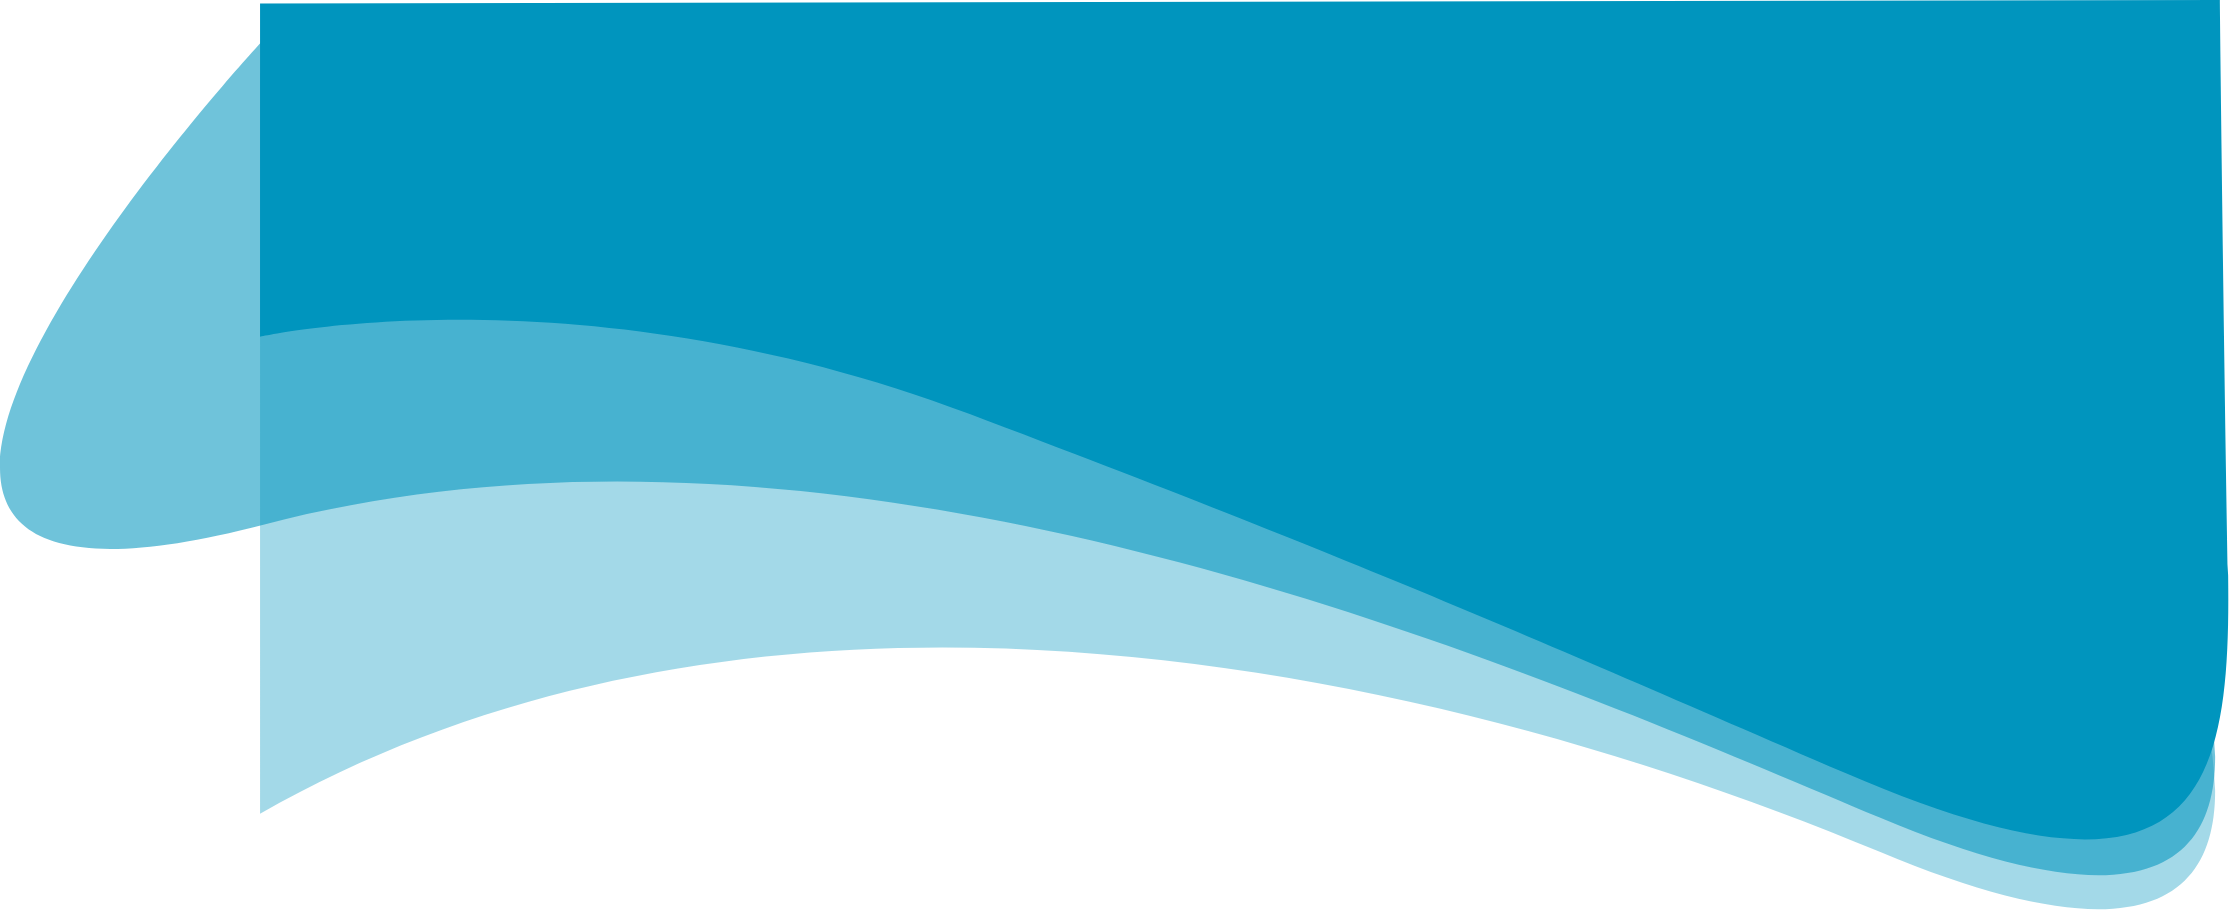
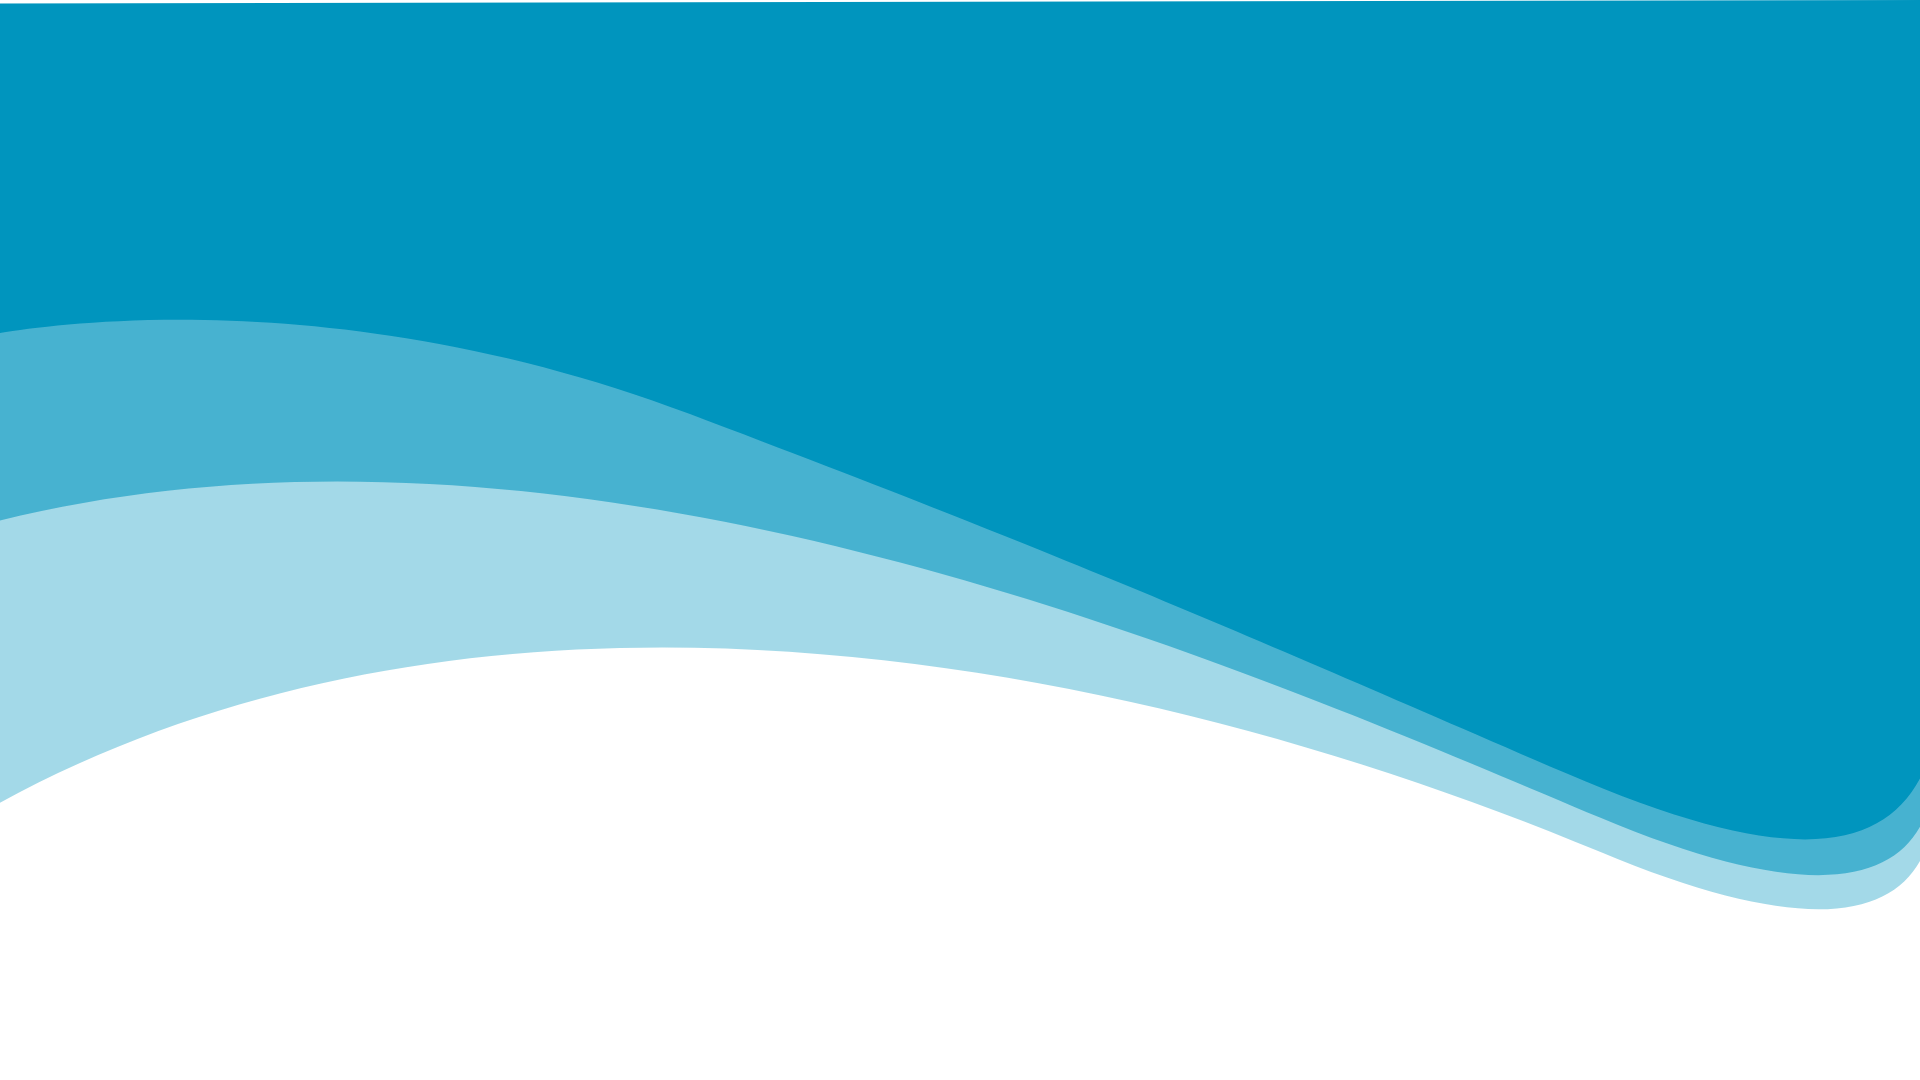
YT works

Changed region(s): [[0.0, 0.0, 1.0, 1.0], [0.9688, 0.0, 1.0, 0.2154]]

diff --git a/index.html b/index.html
@@ -24,19 +24,24 @@
 </div>
 
 <div id="full">
+<div class="page">
+
+
+</div>
+
 
   <div class="yt hidden">
     <center><div class="text_yt">Watch our <b>lastest campaign</b></div></center>
-    <center><iframe src="https://youtu.be/37s0MYfTutU" width="560" height="315" frameborder="0" allowfullscreen="allowfullscreen"></iframe></center>
+    <center><iframe src="https://www.youtube.com/embed/37s0MYfTutU" width="560" height="315" frameborder="0" allowfullscreen="allowfullscreen"></iframe></center>
   </div>
-
-  <div class="some">
+  
+  <div class="some ">
     <div class="text_some">Share your journey with <b>#getMeMoving</b>
       and inspire others to exlore new paths!</div>
+      <div class="butt">
       <button class="see">SEE ON FACEBOOK</button>
       <button class="see">SEE ON INSTAGRAM</button>
-
-  </div>
+  </div></div>
 
 </div>
 </div>

diff --git a/index_style.css b/index_style.css
@@ -70,14 +70,14 @@ color: #0095be;
   }
 
   #full {
-      margin-top: 100vh;
+    margin-top: 100vh;
     height: 100vh;
-    background-image: url(media/bckgr.svg);
+    background-image: url(media/bckgr.png);
     background-size: 100vw;
     background-repeat: no-repeat;
   }
 
-  #yt {
+ .yt {
     padding-top: 70px;
   }
 
@@ -98,15 +98,16 @@ font-weight: normal;
 font-size: 1rem;
 color: #fff;
 width: 27vw;
-position: relative;
-    top: calc(35% - 1em);
-    left: calc(10% - 5em);
+padding-top: 230px;
+padding-left: 50px;
   }
 
   .see {
 border: 2px solid #0095be;
 filter: drop-shadow(0px 5px 10px rgba(0, 92, 117, 0.2));
-position: relative;
-    top: calc(50% - 5em);
-    left: calc(10% - 7em);
+  }
+
+  .butt {
+    padding-top: 30px;
+    padding-left: 50px;
   }
